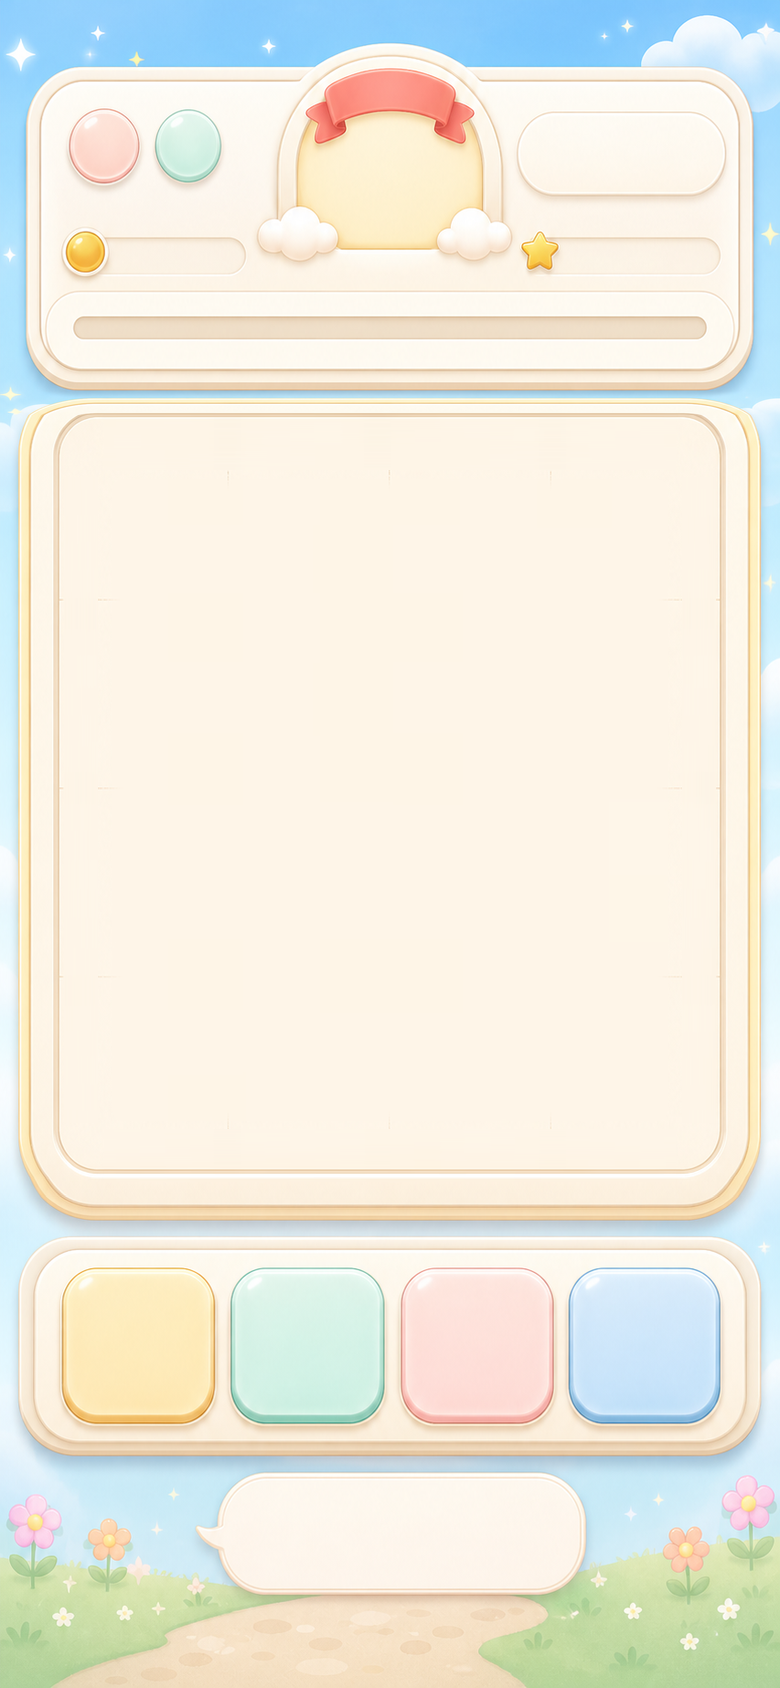
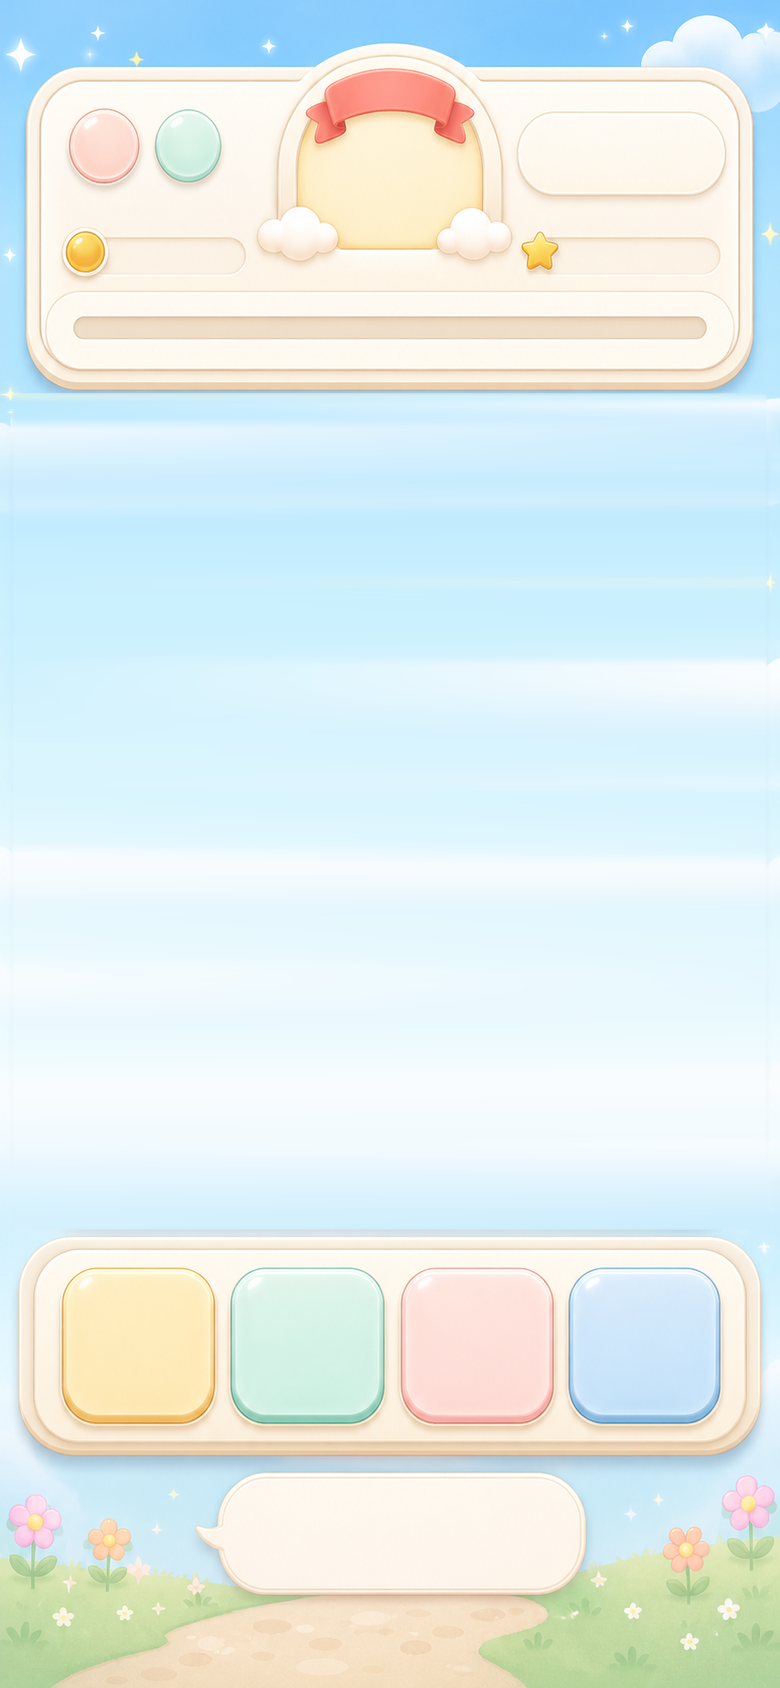
보드 배경 트레이를 크롬 아트에서 완전히 제거
숫자칸 뒤에 깔린 베이지색 판은 CSS가 아니라 배경 그림(ui-chrome.png)에
그려져 있어서 지금까지 CSS로는 없앨 수 없었다. 이 판은 4x4 한 가지 크기에
맞춰 그려진 것이라, 다른 스테이지나 지워진 칸에서는 타일이 덮지 못한
부분이 숫자 뒤에 떠 있는 베이지 덩어리로 보였다.

- build-ui-chrome.py에 erase_recess() 추가: 트레이와 테두리, 드롭섀도까지
  (x 18..760, y 398..1220) 지우고, 그 자리를 원래 하늘로 메운다. 각 행마다
  좌우에 남아 있는 깨끗한 하늘(x 1..10, x 768..778)을 중앙값으로 뽑아
  가로로 보간하므로 세로 그라데이션과 좌우 색 차이가 그대로 이어진다.
- 트레이가 사라지면서 의미가 없어진 연필 그리드 제거 로직도 함께 정리.
- 지워진 칸(.tile.is-empty)의 베이지 틴트 제거: 판이 없으니 파일 자국이
  아니라 하늘 위에 뜬 사각형으로 보였다.
- 스테이지 테마가 .board-frame에 걸던 outline/box-shadow도 무력화. 우선순위가
  더 높아 살아남아서, 타일 바깥에 따뜻한 색 둥근 사각형 선이 남아 있었다.

diff --git a/css/ui-chrome.css b/css/ui-chrome.css
@@ -510,28 +510,20 @@
 }
 
 /* ---------------------------------------------------------------------------
-   Board — a packed slab of square tiles, no panel of its own.
+   Board — a packed slab of square tiles on open sky.
 
-   The recess is 658 × 762 artwork px (h/w 1.158) so the tallest board, 6 × 7
-   (h/w 1.167), seats square tiles inside it with 0.7% to spare. Every other
-   stage — 4 × 4, 5 × 5, 6 × 6 — is width-bound, so the board (cell×cols by
-   cell×rows) is shorter than the recess and floats centred inside it.
+   There is no longer a painted tray behind the board: build-ui-chrome.py
+   erases it and refills those rows with the sky it interrupted. It had to go
+   in the bitmap, because it was drawn for one fixed 4 × 4 grid — on every
+   other stage, and behind every cleared cell, the parts of it the tiles did
+   not cover showed as stray beige blocks that no CSS here could hide.
 
-   That used to read as a mismatched panel: the board painted its own cream
-   background, border and grid lines, so a 4×4 board looked like a smaller
-   beige card pasted inside a bigger one, with a visible seam at its edge.
-   Stretching the grid to fill the recess with 1fr tracks "fixed" the seam but
-   broke tiles apart — the row height stayed 7-rows-tall regardless of how
-   many rows the stage had, so 4 rows sat pooled by huge transparent gaps, and
-   a cleared cell (already a flat cream square) fused with that gap into one
-   giant blank rectangle.
-
-   The actual fix is simpler: keep tiles packed edge to edge (cell×cols by
-   cell×rows, same pitch input.js expects) and give `.board` no surface at
-   all. With no border, background or grid lines of its own, the leftover
-   recess above and below a short board is just the painted floor showing
-   through — the same cream it always was — so there is no second panel to
-   look mismatched against it.
+   The board keeps the geometry the tray used to define: `.board-zone` is still
+   that 658 × 762 artwork box (h/w 1.158), which is what lets the tallest board,
+   6 × 7 (h/w 1.167), seat square tiles with 0.7% to spare. Tiles stay packed
+   edge to edge at cell×cols by cell×rows — the uniform pitch input.js assumes
+   when it divides the board rect by cols/rows — and `.board` itself paints
+   nothing, so a shorter board simply leaves more sky around it.
    ------------------------------------------------------------------------ */
 .play-ui-v4 .board-zone {
   position: absolute;
@@ -563,6 +555,16 @@
   border-radius: 12px;
   background: transparent;
   box-shadow: none;
+  outline: 0;
+}
+
+/* The stage-band theme rings the frame with a tinted outline and a white spread
+   shadow — a card edge for a card that no longer exists. Its selector outranks
+   the rule above, so the frame has to be cleared again here or a warm rounded
+   rectangle keeps floating a few px outside the tiles. */
+.screen-play.play-ui-v4[data-stage-band] .board-frame {
+  outline: 0;
+  box-shadow: none;
 }
 
 .play-ui-v4 .board {
@@ -577,8 +579,7 @@
   aspect-ratio: auto;
   border: 0;
   border-radius: 0;
-  /* No panel of its own — the painted recess floor shows through both around
-     a short board and through the 1px inter-tile gap. */
+  /* No surface of its own — only the tiles are drawn. */
   background: transparent;
   box-shadow: none;
 }
@@ -600,15 +601,15 @@
   font-size: clamp(17px, calc(var(--cell) * 0.46), 42px);
 }
 
-/* A cleared cell has to read as a shallow recess in the board, never as an
-   image that failed to load. */
+/* A cleared cell used to be tinted like a shallow dent in the tray. With the
+   tray erased there is no surface left to dent, so that tint became a beige
+   block floating on the sky — the very thing the erase was for. A cleared cell
+   is now simply nothing. */
 .play-ui-v4 .tile.is-empty:not(.is-board-item):not(.is-bonus-cat) {
-  border: 1px solid rgba(185, 151, 105, .24);
-  background: rgba(236, 218, 184, .34);
+  border: 0;
+  background: transparent;
   background-image: none;
-  box-shadow:
-    inset 0 3px 6px rgba(119, 83, 46, .16),
-    inset 0 -1px 0 rgba(255, 255, 255, .6);
+  box-shadow: none;
   filter: none;
   opacity: 1;
 }

diff --git a/design/ui-chrome/build-ui-chrome.py b/design/ui-chrome/build-ui-chrome.py
@@ -25,15 +25,27 @@ by bands that contain no drawn objects:
 
 The recess grows from 723px to 762px (y 415..1177) so a 6x7 board of SQUARE
 tiles fits inside it; everything painted keeps the proportions it was drawn
-with. The faint 4x4 pencil grid on the recess floor never matched the live
-grid (the CSS board paints its own), so the floor is blurred clean before the
-bands are cut — the stages whose boards do not fill the recess show painted
-floor above and below the board, and that margin must not carry stale lines.
+with.
+
+The board recess is then ERASED. It was a painted cream tray with a golden
+rim, and the live board sits on top of it — but the tray is drawn for one
+fixed 4x4 grid, so on every other stage (and on any cleared cell) the parts of
+it the tiles do not cover read as stray beige blocks pasted behind the
+numbers. No CSS can hide it, because it is baked into this bitmap. So the
+whole tray, rim and drop shadow (x 18..760, y 398..1220) is painted out with
+the sky it interrupts: the strips beside it, x 1..10 and x 768..778, are clean
+gradient sky at every one of those rows, so each row is refilled by
+interpolating its own left and right sky across the gap. The tiles then float
+on open sky and nothing but the numbers shows.
+
+Erasing the tray also retires the old pencil-grid cleanup — the faint 4x4
+grid printed on the tray floor went out with the floor itself.
 
 Every CSS anchor in css/ui-chrome.css was re-derived through the same band
 map; run this script with --anchors to print the mapping used there.
 """
 
+import statistics
 import sys
 from pathlib import Path
 
@@ -60,15 +72,18 @@ BANDS = [
     (1195, 1686, 491),
 ]
 
-# The recess floor carries a faint painted pencil grid that never matched the
-# live board, so it is erased region by region (uniform-space boxes). The open
-# floor gets a synthetic smooth gradient (8x10 box-average of itself, so its
-# vignette survives while anything line-sized vanishes). The frame lips and the
-# side shadow bands each vary along one axis only, so a smear along that axis
-# removes the grid ticks crossing them without softening the painted edges.
-FLOOR_BOX = (96, 505, 684, 1140)
-LIP_BOXES = [(90, 450, 690, 512), (90, 1132, 690, 1184)]      # horizontal smear
-SIDE_BOXES = [(64, 505, 98, 1140), (682, 505, 716, 1140)]     # vertical smear
+# The painted board tray, measured on the assembled canvas: rim and drop shadow
+# together span x 18..760, y 398..1220. The erase box clears that with a margin
+# on every side so the feathered edge falls on sky, never on the golden rim; the
+# HUD shadow ends at y 390 and the dock panel starts at y 1236, so the box stays
+# clear of both.
+RECESS_ERASE = (12, 393, 767, 1230)
+# Sky strips beside the tray. Sampled outside the erase box and clear of the
+# tray's own shadow, which reaches x 15 on the left and x 764 on the right.
+SKY_LEFT = (1, 11)
+SKY_RIGHT = (768, 779)
+SKY_SMOOTH = 5      # rows either side, to keep per-row medians from banding
+ERASE_FEATHER = 1.5
 
 
 def old_to_uniform(y: float) -> float:
@@ -89,28 +104,55 @@ def uniform_to_new(y: float) -> float:
     return out
 
 
+def erase_recess(chrome: Image.Image) -> Image.Image:
+    """Paint the board tray out of the assembled canvas, restoring open sky.
+
+    Each erased row is refilled by interpolating between the sky still standing
+    on its own left and right — so the fill inherits the vertical gradient and
+    the slight left-to-right shift of the painted sky instead of inventing a
+    flat colour, and the seam lands on sky that already matches.
+    """
+    x0, y0, x1, y1 = RECESS_ERASE
+    px = chrome.load()
+
+    def strip_median(y, span):
+        cols = [px[x, y] for x in range(*span)]
+        return tuple(statistics.median(c[i] for c in cols) for i in range(3))
+
+    def smoothed(span):
+        raw = [strip_median(y, span) for y in range(y0, y1)]
+        out = []
+        for i in range(len(raw)):
+            lo = max(0, i - SKY_SMOOTH)
+            hi = min(len(raw), i + SKY_SMOOTH + 1)
+            window = raw[lo:hi]
+            out.append(tuple(sum(c[j] for c in window) / len(window) for j in range(3)))
+        return out
+
+    lefts, rights = smoothed(SKY_LEFT), smoothed(SKY_RIGHT)
+
+    fill = chrome.copy()
+    fp = fill.load()
+    span = x1 - x0 - 1
+    for i, y in enumerate(range(y0, y1)):
+        left, right = lefts[i], rights[i]
+        for x in range(x0, x1):
+            t = (x - x0) / span
+            fp[x, y] = tuple(
+                int(round(left[j] + (right[j] - left[j]) * t)) for j in range(3))
+
+    mask = Image.new("L", chrome.size, 0)
+    mask.paste(255, (x0, y0, x1, y1))
+    mask = mask.filter(ImageFilter.GaussianBlur(ERASE_FEATHER))
+    return Image.composite(fill, chrome, mask)
+
+
 def build() -> None:
     source = Image.open(SOURCE).convert("RGB")
     if source.size != (853, 1844):
         raise ValueError(f"Unexpected chrome source size: {source.size}")
 
     u = source.resize(UNIFORM, Image.Resampling.LANCZOS)
-
-    def patch(box, small_size, inset):
-        region = u.crop(box)
-        clean = region.resize(small_size, Image.Resampling.BOX).resize(
-            region.size, Image.Resampling.BICUBIC)
-        mask = Image.new("L", region.size, 0)
-        mask.paste(255, (inset[0], inset[1],
-                         region.size[0] - inset[0], region.size[1] - inset[1]))
-        mask = mask.filter(ImageFilter.GaussianBlur(6))
-        u.paste(Image.composite(clean, region, mask), box[:2])
-
-    patch(FLOOR_BOX, (8, 10), (16, 16))
-    for box in LIP_BOXES:
-        patch(box, (24, box[3] - box[1]), (14, 0))
-    for box in SIDE_BOXES:
-        patch(box, (box[2] - box[0], 24), (0, 14))
 
     chrome = Image.new("RGB", CANVAS)
     cursor = 0
@@ -121,6 +163,8 @@ def build() -> None:
         chrome.paste(band, (0, cursor))
         cursor += h
     assert cursor == CANVAS[1], cursor
+
+    chrome = erase_recess(chrome)
     chrome.save(OUTPUT, format="PNG", optimize=True)
 
     cat = Image.open(CAT_SOURCE).convert("RGBA")
